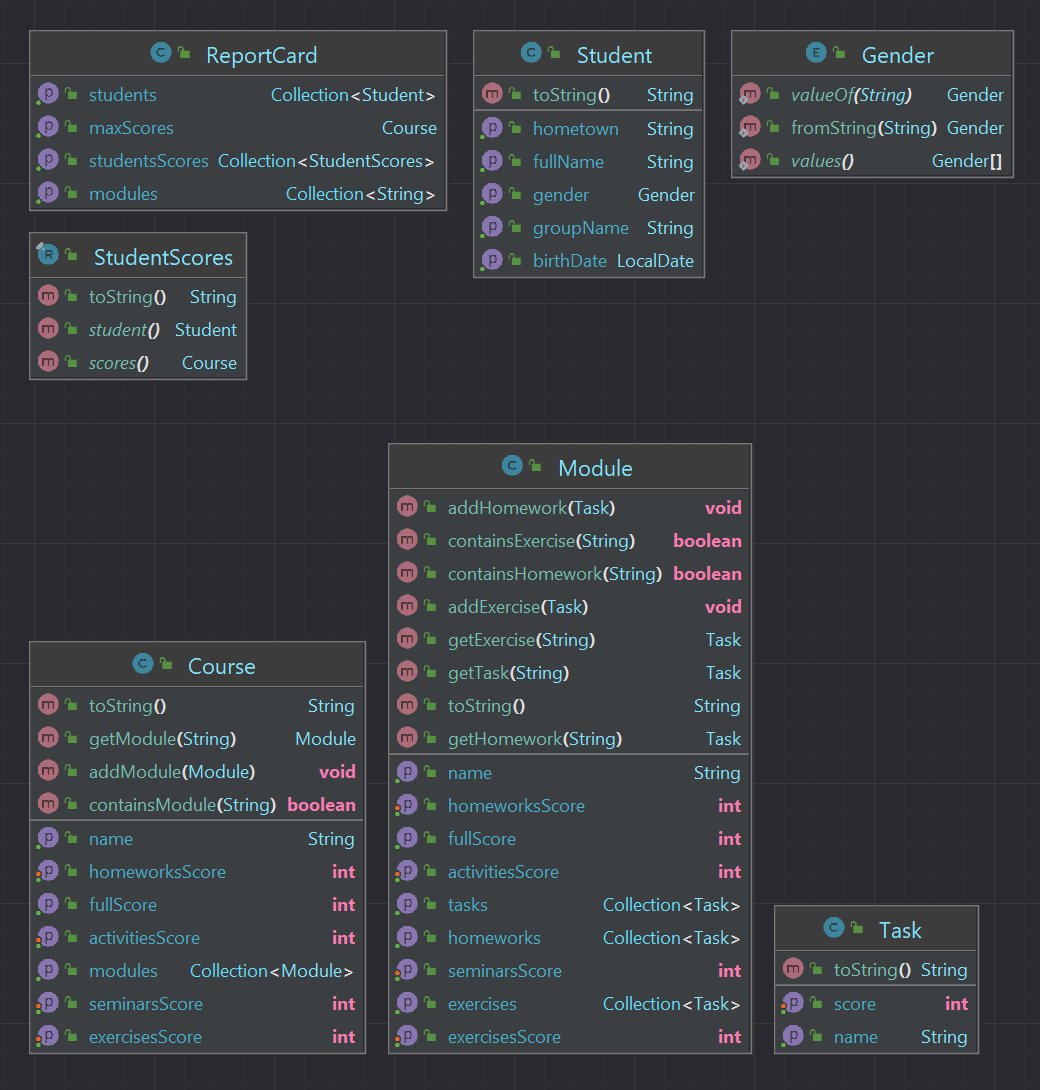
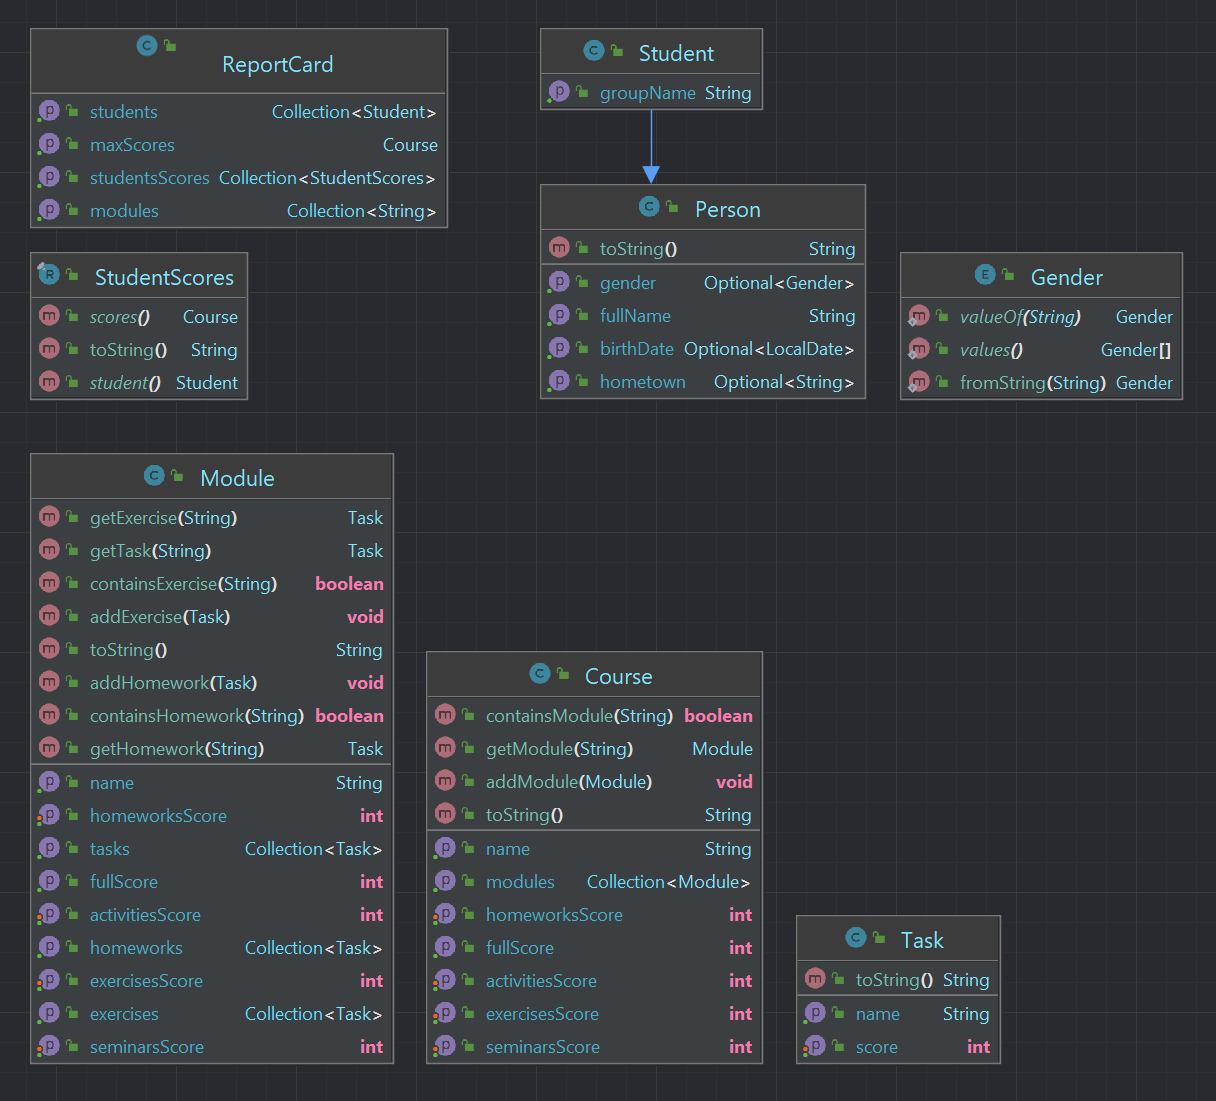
Objects structure refactored

Changed region(s): [[0.0, 0.4055, 0.9538, 0.967], [0.0, 0.0312, 0.9846, 0.3743], [0.7385, 0.2183, 0.9846, 0.3743]]

diff --git a/src/utils/parser/CsvReportParser.java b/src/utils/parser/CsvReportParser.java
@@ -1,0 +1,106 @@
+package utils.parser;
+
+import report.ReportCard;
+import report.StudentScores;
+import report.course.Course;
+import report.course.Module;
+import report.course.Task;
+
+import java.io.IOException;
+import java.nio.file.Files;
+import java.nio.file.Paths;
+import java.util.Arrays;
+import java.util.List;
+import java.util.stream.Stream;
+
+public class CsvReportParser implements ReportCardParser {
+    private final StudentLoader studentLoader;
+    private String courseName;
+    private List<String> modules;
+    private List<String> tasks;
+
+    public CsvReportParser(StudentLoader studentLoader) {
+        this.studentLoader = studentLoader;
+    }
+
+    public ReportCard parse(String courseName, String filePath) {
+        this.courseName = courseName;
+        try {
+            return tryParse(filePath);
+        } catch (IOException e) {
+            throw new RuntimeException("Error happens during parsing", e);
+        }
+    }
+
+    private ReportCard tryParse(String path) throws IOException {
+        var lines = Files.readAllLines(Paths.get(path));
+        modules = getDataStream(lines.get(0)).toList();
+        tasks = getDataStream(lines.get(1)).toList();
+
+        var maxes = getDataStream(lines.get(2)).map(Integer::parseInt).toList();
+        var maxScores = ScoreParser.parse(courseName, modules, tasks, maxes);
+
+        var studentScores = lines.stream()
+            .skip(3)
+            .map(this::parseStudentScores)
+            .toList();
+
+        return new ReportCard(maxScores, studentScores);
+    }
+
+    private static Stream<String> getDataStream(String line) {
+        return Arrays.stream(line.split(";")).skip(2);
+    }
+
+    private StudentScores parseStudentScores(String line) {
+        var data = line.split(";");
+        var student = studentLoader.load(data[0], data[1]);
+        var scores = Arrays.stream(data).skip(2).map(Integer::parseInt).toList();
+        return new StudentScores(student, ScoreParser.parse(courseName, modules, tasks, scores));
+    }
+}
+
+class ScoreParser {
+    public static Course parse(String courseName, List<String> modules, List<String> tasks, List<Integer> scores) {
+        var course = new Course(courseName);
+        setCourseScores(course, scores.subList(0, 4));
+
+        var module = new Module(modules.get(4));
+        for (var i = 5; i < tasks.size(); i++) {
+            if (i >= modules.size() || modules.get(i).isEmpty()) {
+                parseTask(tasks.get(i), scores.get(i), module);
+            } else {
+                course.addModule(module);
+                module = new Module(modules.get(i));
+            }
+        }
+        course.addModule(module);
+
+        return course;
+    }
+
+    private static void setCourseScores(Course course, List<Integer> scores) {
+        course.setActivitiesScore(scores.get(0));
+        course.setExercisesScore(scores.get(1));
+        course.setHomeworksScore(scores.get(2));
+        course.setSeminarsScore(scores.get(3));
+    }
+
+    private static void parseTask(String task, int score, Module module) {
+        switch (task) {
+            case "Акт" -> module.setActivitiesScore(score);
+            case "Упр" -> module.setExercisesScore(score);
+            case "ДЗ" -> module.setHomeworksScore(score);
+            case "Сем" -> module.setSeminarsScore(score);
+            case "Доп" -> module.addHomework(new Task(task, score));
+            default -> {
+                var tokens = task.split(": ");
+                switch (tokens[0]) {
+                    case "Упр" -> module.addExercise(new Task(tokens[1], score));
+                    case "ДЗ" -> module.addHomework(new Task(tokens[1], score));
+                    default -> throw new IllegalArgumentException("Unknown token!");
+                }
+            }
+        }
+    }
+}

diff --git a/src/report/person/Person.java b/src/report/person/Person.java
@@ -1,0 +1,52 @@
+package report.person;
+
+import java.time.LocalDate;
+import java.util.Optional;
+import java.util.stream.Collectors;
+import java.util.stream.Stream;
+
+public class Person {
+    protected final String fullName;
+    protected final Gender gender;
+    protected final LocalDate birthDate;
+    protected final String hometown;
+
+    public Person(String fullName, Gender gender, LocalDate birthDate, String hometown) {
+        if (fullName == null)
+            throw new IllegalArgumentException("Full name cannot be null!");
+        this.fullName = fullName;
+
+        this.gender = gender;
+        this.birthDate = birthDate;
+        this.hometown = hometown;
+    }
+
+    public String getFullName() {
+        return fullName;
+    }
+
+    public Optional<Gender> getGender() {
+        return Optional.ofNullable(gender);
+    }
+
+    public Optional<LocalDate> getBirthDate() {
+        return Optional.ofNullable(birthDate);
+    }
+
+    public Optional<String> getHometown() {
+        return Optional.ofNullable(hometown);
+    }
+
+    @Override
+    public String toString() {
+        var additionalInfo = Stream.of(getGender(), getBirthDate(), getHometown())
+            .filter(Optional::isPresent)
+            .map(op -> op.get().toString())
+            .collect(Collectors.joining(", "));
+        var result = getFullName();
+        if (!additionalInfo.isBlank())
+            result += String.format(" (%s)", additionalInfo);
+
+        return result;
+    }
+}

diff --git a/src/report/person/Student.java b/src/report/person/Student.java
@@ -1,0 +1,23 @@
+package report.person;
+
+import java.time.LocalDate;
+
+public class Student extends Person {
+    private final String groupName;
+
+    public Student(String fullName, String groupName) {
+        this(fullName, groupName, null, null, null);
+    }
+
+    public Student(String fullName, String groupName, Gender gender, LocalDate birthDate, String hometown) {
+        super(fullName, gender, birthDate, hometown);
+
+        if (groupName == null)
+            throw new IllegalArgumentException("Group name cannot be null!");
+        this.groupName = groupName;
+    }
+
+    public String getGroupName() {
+        return groupName;
+    }
+}

diff --git a/src/Main.java b/src/Main.java
@@ -1,9 +1,11 @@
-import parser.ReportParserCVS;
+import report.person.Student;
+import utils.parser.ReportCardParser;
+import utils.parser.CsvReportParser;
 
 public class Main {
     public static void main(String[] args) {
         var path = "misc/basicprogramming_2.csv";
-        var parser = new ReportParserCVS();
+        ReportCardParser parser = new CsvReportParser(Student::new);
         var report = parser.parse("C#", path);
     }
 }

diff --git a/src/utils/parser/VkStudentLoader.java b/src/utils/parser/VkStudentLoader.java
@@ -1,0 +1,10 @@
+package utils.parser;
+
+import report.person.Student;
+
+public class VkStudentLoader implements StudentLoader {
+    @Override
+    public Student load(String fullName, String groupName) {
+        throw new UnsupportedOperationException("Not implemented yet!");
+    }
+}

diff --git a/src/report/ReportCard.java b/src/report/ReportCard.java
@@ -2,6 +2,7 @@ package report;
 
 import report.course.Course;
 import report.course.Module;
+import report.person.Student;
 
 import java.util.Collection;
 import java.util.Collections;

diff --git a/src/utils/parser/ReportCardParser.java b/src/utils/parser/ReportCardParser.java
@@ -1,0 +1,7 @@
+package utils.parser;
+
+import report.ReportCard;
+
+public interface ReportCardParser {
+    ReportCard parse(String courseName, String filePath);
+}

diff --git a/src/utils/parser/StudentLoader.java b/src/utils/parser/StudentLoader.java
@@ -1,0 +1,7 @@
+package utils.parser;
+
+import report.person.Student;
+
+public interface StudentLoader {
+    Student load(String fullName, String groupName);
+}

diff --git a/src/report/StudentScores.java b/src/report/StudentScores.java
@@ -1,6 +1,7 @@
 package report;
 
 import report.course.Course;
+import report.person.Student;
 
 public record StudentScores(Student student, Course scores) {
 

diff --git a/src/report/person/Gender.java b/src/report/person/Gender.java
@@ -1,4 +1,4 @@
-package report;
+package report.person;
 
 public enum Gender {
     MALE, FEMALE;
